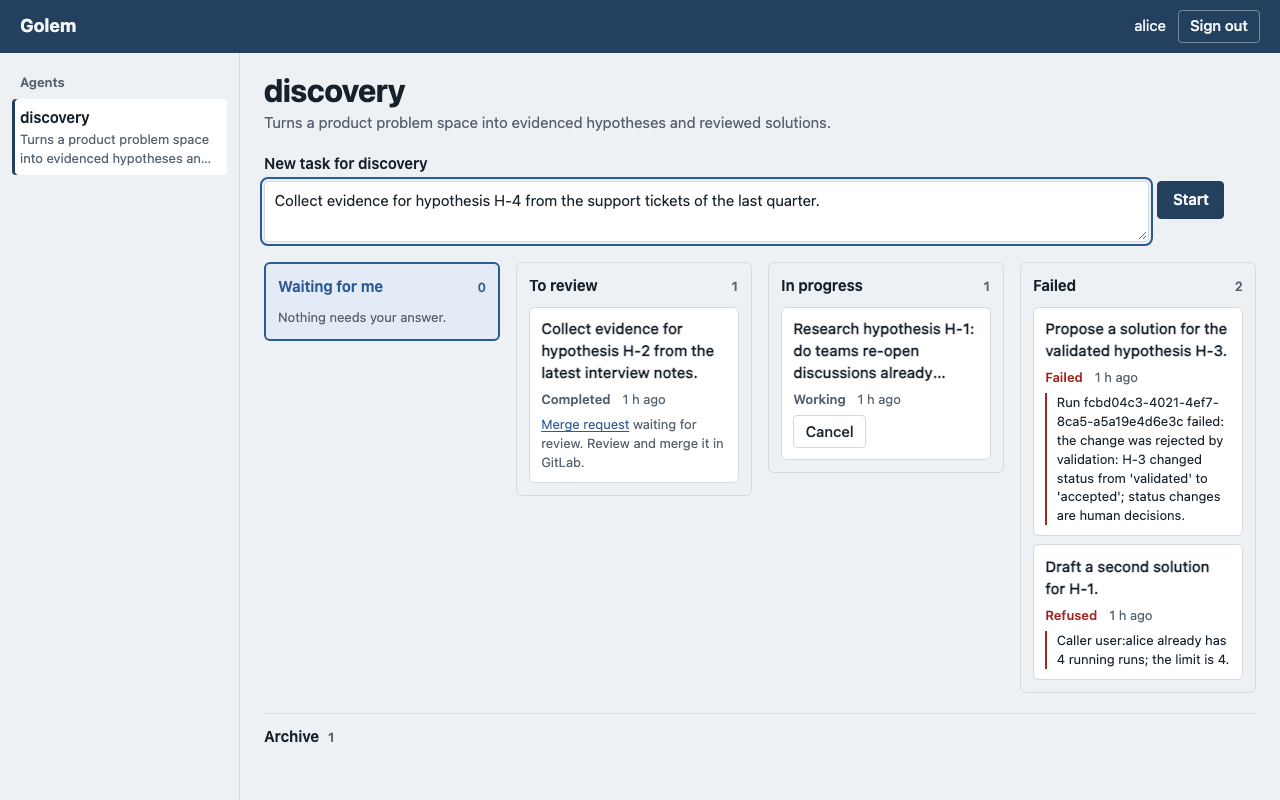
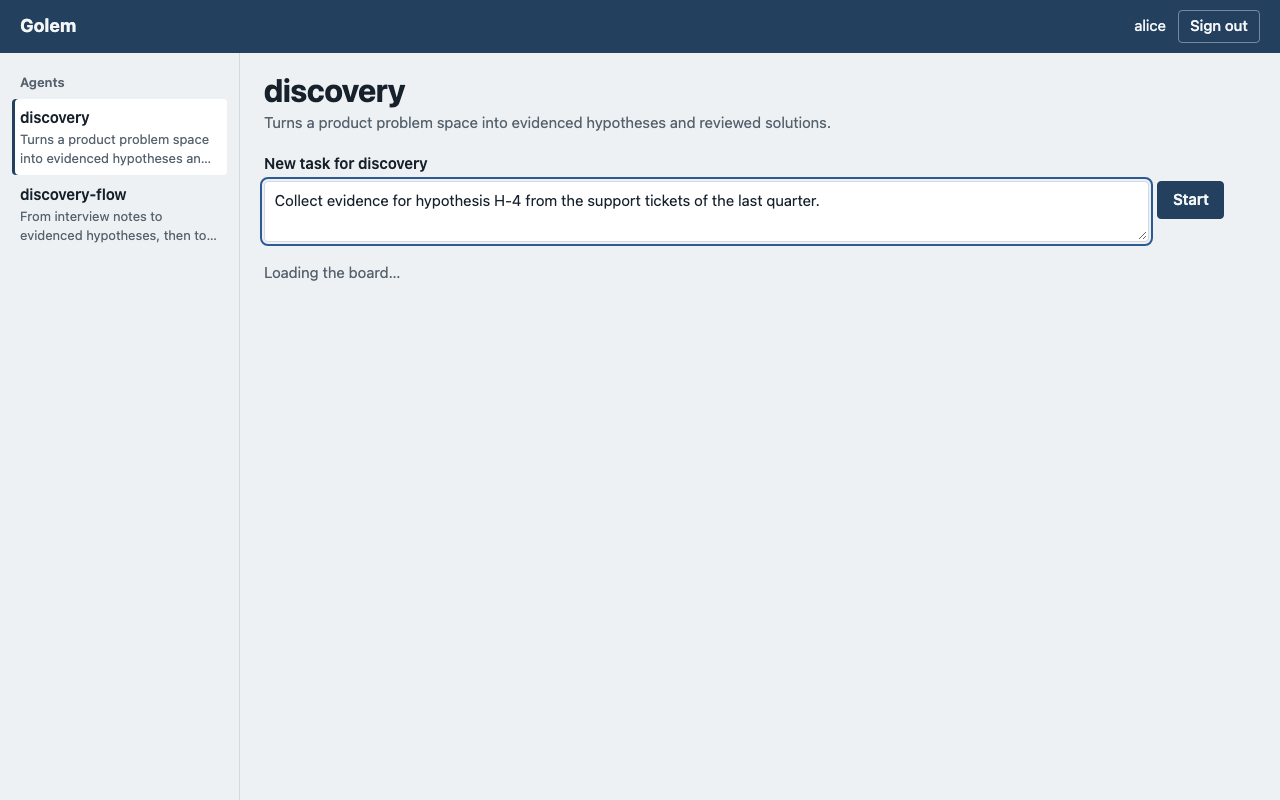
docs: processes on the board, and what a stage's merge request decides
Getting started gains a process's board; reviewing proposals says what
merging, closing with a comment and closing without one do to a
process. ADR 0018 records the snapshot every sixth poll and why a
process card reads golemProcess only. Screenshots regenerated.

diff --git a/docs/guide/reviewing-proposals.md b/docs/guide/reviewing-proposals.md
@@ -86,6 +86,29 @@ Wrong content, and nobody should work on the record: change its status as in
 A proposal that should not exist at all (another directory, a changed status, secrets in the
 text): validation should have stopped the first two, so tell the platform team with the run id.
 
+## A stage of a process
+
+A process's stage proposes a merge request like any run, and your decision on it drives the
+process ([ADR 0019](../adr/0019-processes.md)):
+
+- **Merge** it: the next stage starts once the platform has read the merge request's state
+  back from GitLab (every `GOLEM_MR_POLL_SECONDS`, five minutes by default), and reads what you
+  merged. After the last stage, the process is done.
+- **Close it with a comment** saying what is wrong: the same stage runs again, with your
+  comment as its brief. The platform takes the last comment you wrote on the merge request,
+  up to a minute after closing it. A stage runs at most `1 + return_limit` times (three by
+  default); after that the process fails.
+- **Close it without a comment**: the process waits. Its card goes to **Waiting for me** on the
+  board, with a field for the reason. Write it and choose **Rerun the stage**, which counts as
+  one attempt, or **End the process**, which ends it as failed.
+
+If the record under a stage changed before you decided, the stage's proposal is out of date and
+the stage runs again by itself; that does not use up your attempts, but a process gives up
+after three such reruns of one stage.
+
+Only the person who started the process answers on its card; **Cancel** stops the process and
+closes the stage's open merge request.
+
 ## Rules of thumb
 
 - One merge request per record at a time: while one is open, the agent works on other records.

diff --git a/docs/guide/getting-started.md b/docs/guide/getting-started.md
@@ -81,6 +81,27 @@ Accepting is merging the merge request; rejecting is closing it and recording th
 the record. Who may do either, and how to do it so the agent does not propose the same thing
 again: [reviewing-proposals.md](reviewing-proposals.md).
 
+## A process: several agents in turn
+
+Some entries in the left column are **processes**: a fixed sequence of stages, each one an
+agent's run, set up by your platform team ([ADR 0019](../adr/0019-processes.md)). You start a
+process like an agent, with a goal; the platform runs the first stage, and each next stage
+starts once you have merged the previous stage's merge request. You see one card for the whole
+process, never the stages' own tasks.
+
+![A process's board](../images/ui/process-board.png)
+
+The card says which stage runs (**Stage 1 of 2: evidence**), and, once a stage ran again, which
+attempt it is on. It moves through the columns like a task's card: **To review** while the
+stage's merge request waits for you, **In progress** while a stage runs, **Archive** when the
+last stage is merged, **Failed** with the reason when the process gave up.
+
+To send a stage back, close its merge request **with a comment saying why**: the stage runs
+again with your comment as its brief, up to the process's limit of attempts. If you close it
+without a comment, the card goes to **Waiting for me** and asks for the reason: write it and
+choose **Rerun the stage**, or choose **End the process**. More in
+[reviewing-proposals.md](reviewing-proposals.md#a-stage-of-a-process).
+
 ## When something goes wrong
 
 A failed run says why. This one's role changed a status, which only people may do, so nothing

diff --git a/docs/adr/0018-board.md b/docs/adr/0018-board.md
@@ -410,6 +410,16 @@ that switches to the stream changes its transport, not its model.
   backend-for-frontend.
 - **Development.** `vite` also proxies `/healthz`. Waiting for me and its answer form exist, but
   no Golem run asks for input yet, as above.
+- **A snapshot every sixth poll.** A proposal's or a process's change leaves its task's status
+  timestamp alone, so a delta never carries it, and until the edge serves the open proposals a
+  card would wait for a reload to move. A snapshot costs the edge the same one `ListTasks` as a
+  delta, so the board asks for one every sixth poll (a minute at the base interval) and at
+  once after answering a process that needs a reason.
+- **Processes.** A process's card and its column come from `golemProcess` alone: the task
+  service writes `golemProposal` only while a stage has a proposal and never removes it, so on
+  a process task it can outlive its stage. Counts in `golemProcess` read back as doubles, since
+  task metadata is a protobuf `Struct`; the BFF takes whole numbers. Stage tasks never reach a
+  person's board, since their tenant is the worker's.
 
 ### What changes elsewhere
 
